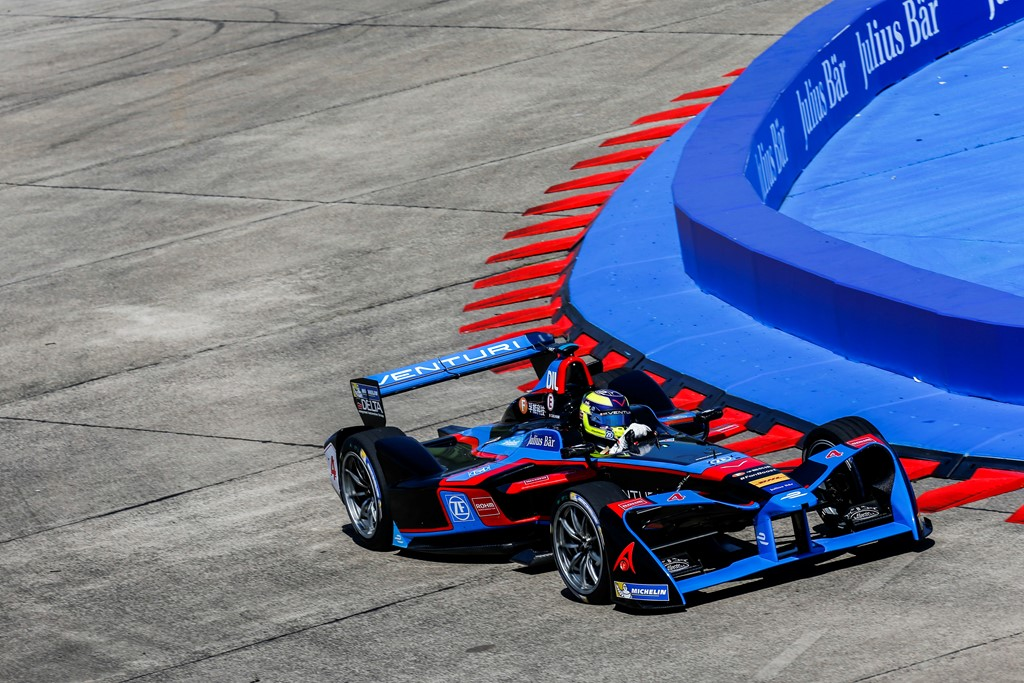
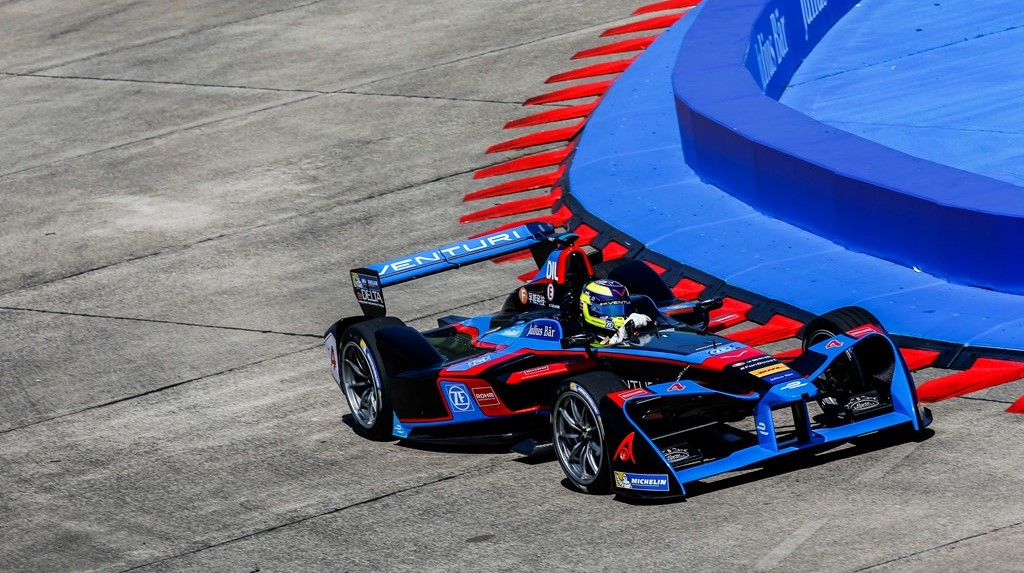
:tophat: Home!

diff --git a/screens/Home.js b/screens/Home.js
@@ -30,22 +30,24 @@ export class Home extends Component {
           <Text style={styles.screenHeading}>Home</Text>
         </View>
         <ScrollView>
-          <View style={styles.hero}>
-            <Text style={styles.RaceTitleText}>
-              Julius Baer Mexico City ePrix
+          <View style={styles.infoArea}>
+            <Text>JULIUS BAER</Text>
+            <Text style={[styles.RaceTitleText, { fontWeight: '700' }]}>
+              Mexico City ePrix
             </Text>
             <Text style={styles.RaceVenueText}>
-              Autòdromo Hermanos Rodrìuez
+              Autodromo Hermanos Rodríguez
             </Text>
-            <Text style={styles.RaceDateText}>1 April, 2017</Text>
           </View>
           <View>
             <Image
-              source={require('../assets/images/hero-1.jpg')}
+              source={require('../assets/images/hero-2.jpg')}
               style={styles.photoBoxImage}
             />
           </View>
-          <Text style={styles.sectionHeading}>SCHEDULE</Text>
+          <Text style={[styles.sectionHeading, { marginTop: 60 }]}>
+            SCHEDULE &bull; Apr 1
+          </Text>
           {ScheduleList}
           <Text style={styles.sectionHeading}>MY FAVORITES</Text>
           <View style={[styles.card, { alignItems: 'center' }]}>
@@ -111,27 +113,36 @@ const styles = StyleSheet.create({
     paddingBottom: 10,
   },
 
-  hero: {
-    alignItems: 'center',
+  infoArea: {
+    position: 'absolute',
+    elevation: 1,
+    // alignItems: 'center',
+    justifyContent: 'center',
     width: '100%',
+    paddingTop: 16,
+    paddingBottom: 12,
+    paddingLeft: 16,
+    marginLeft: 40,
+    backgroundColor: 'rgba(255, 255, 255, 1)',
+    borderRadius: 2,
+    top: 245,
   },
 
   RaceTitleText: {
-    fontSize: 24,
-  },
-
-  RaceDateText: {
-    fontSize: 14,
+    fontSize: 20,
+    fontFamily: 'Roboto',
   },
 
   RaceVenueText: {
     fontSize: 14,
+    marginTop: 6,
+    fontFamily: 'Roboto',
   },
 
   photoBoxImage: {
     resizeMode: 'cover',
     width: '100%',
-    height: 180,
+    height: 300,
   },
 
   card: {
